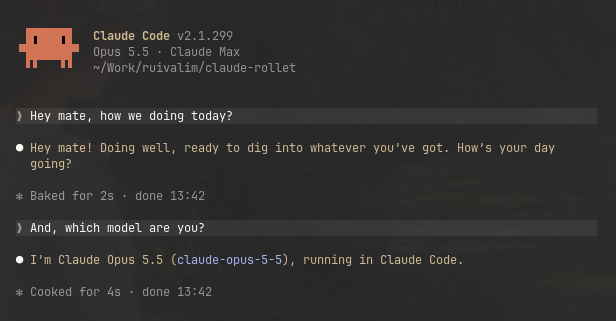
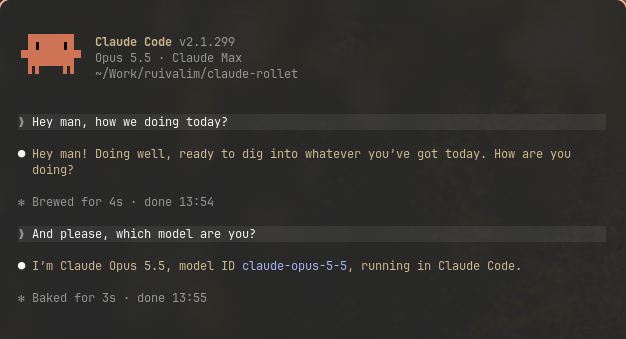
README: screenshots of one blind session, from chat to reveal

diff --git a/README.md b/README.md
@@ -27,6 +27,10 @@ The only hint is the base URL in `/status`:
 
 ![Claude Code /status pointing at rollet on 127.0.0.1:7777](docs/screenshots/status.png)
 
+Then you reveal it. Same session: GPT on a ChatGPT subscription.
+
+![rollet sessions --reveal showing the session went to codex](docs/screenshots/reveal.png)
+
 ## How it stays blind
 
 - **One roll per session.** The first request of a Claude Code session picks a provider
